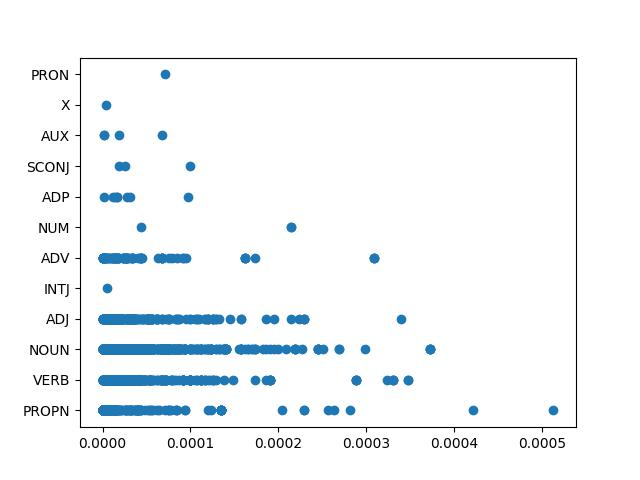
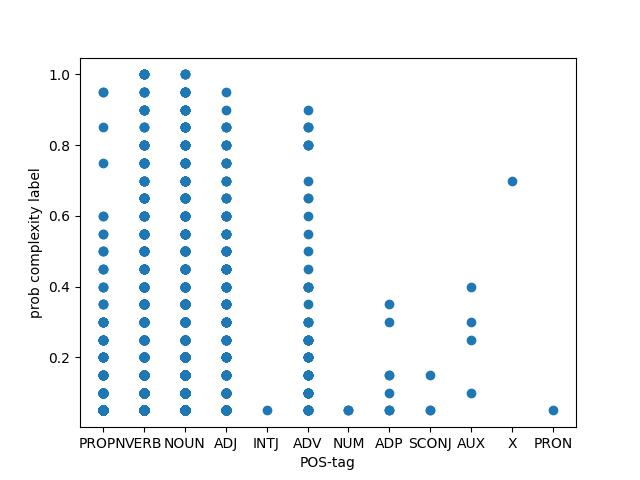
set xlabels, ylabels on plot, perfected Scratch B

diff --git a/Part B Scratch.py b/Part B Scratch.py
@@ -60,9 +60,17 @@ print(df8)
 print(np.corrcoef(df8['token_length'], df8['label_prob'])[0, 1])  # corr token length and perceived complexity word
 print(np.corrcoef(df8['word_freq'], df8['label_prob'])[0, 1])  # corr word frequency and perceived complexity word
 
+print(np.corrcoef(df8['token_length'], df8['word_freq'])[0, 1])  # corr word length and frequency
+
 plt.scatter(df8['token_length'], df8['label_prob'])
+plt.xlabel('word length')
+plt.ylabel('prob complexity label')
 plt.clf
 plt.scatter(df8['word_freq'], df8['label_prob'])
+plt.xlabel('word frequency')
+plt.ylabel('prob complexity label')
 plt.clf()
-plt.scatter(df8['word_freq'], df8['pos_tag'])
+plt.scatter(df8['pos_tag'], df8['label_prob'])
+plt.xlabel('POS-tag')
+plt.ylabel('prob complexity label')
 plt.clf()
